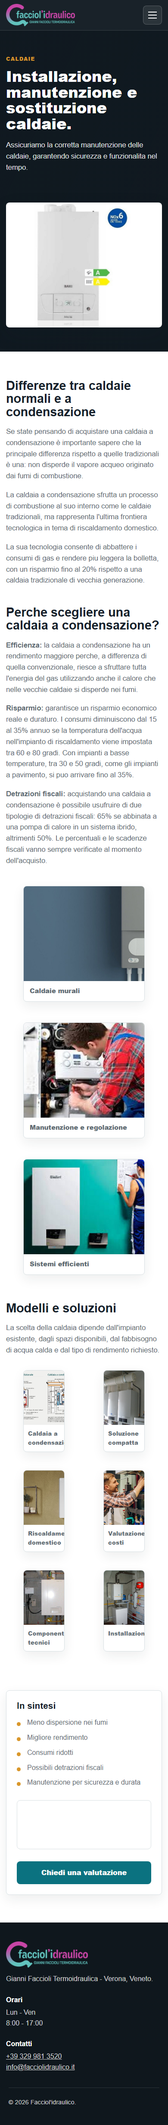
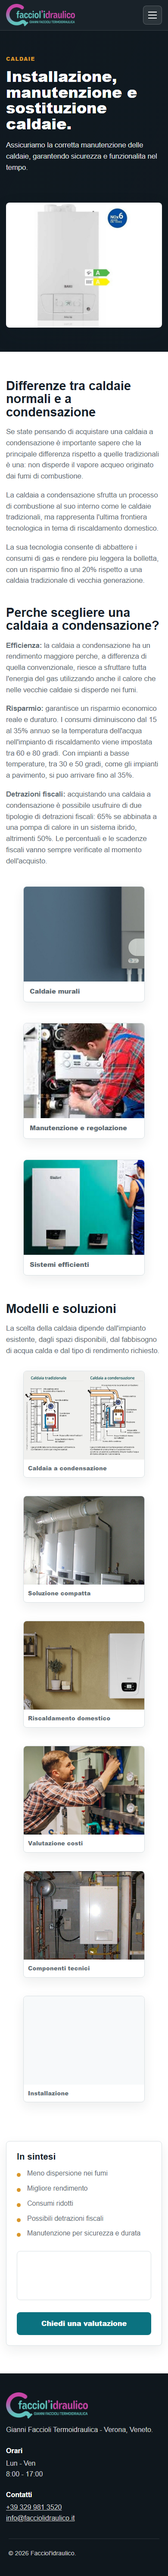
reverted images

diff --git a/web/assets/styles.css b/web/assets/styles.css
@@ -1020,11 +1020,12 @@ h3 {
   }
 
   .product-gallery {
+    grid-template-columns: 1fr;
     gap: 10px;
   }
 
   .product-gallery .image-tile img {
-    height: 126px;
+    height: 205px;
   }
 
   .product-gallery .image-tile figcaption {
